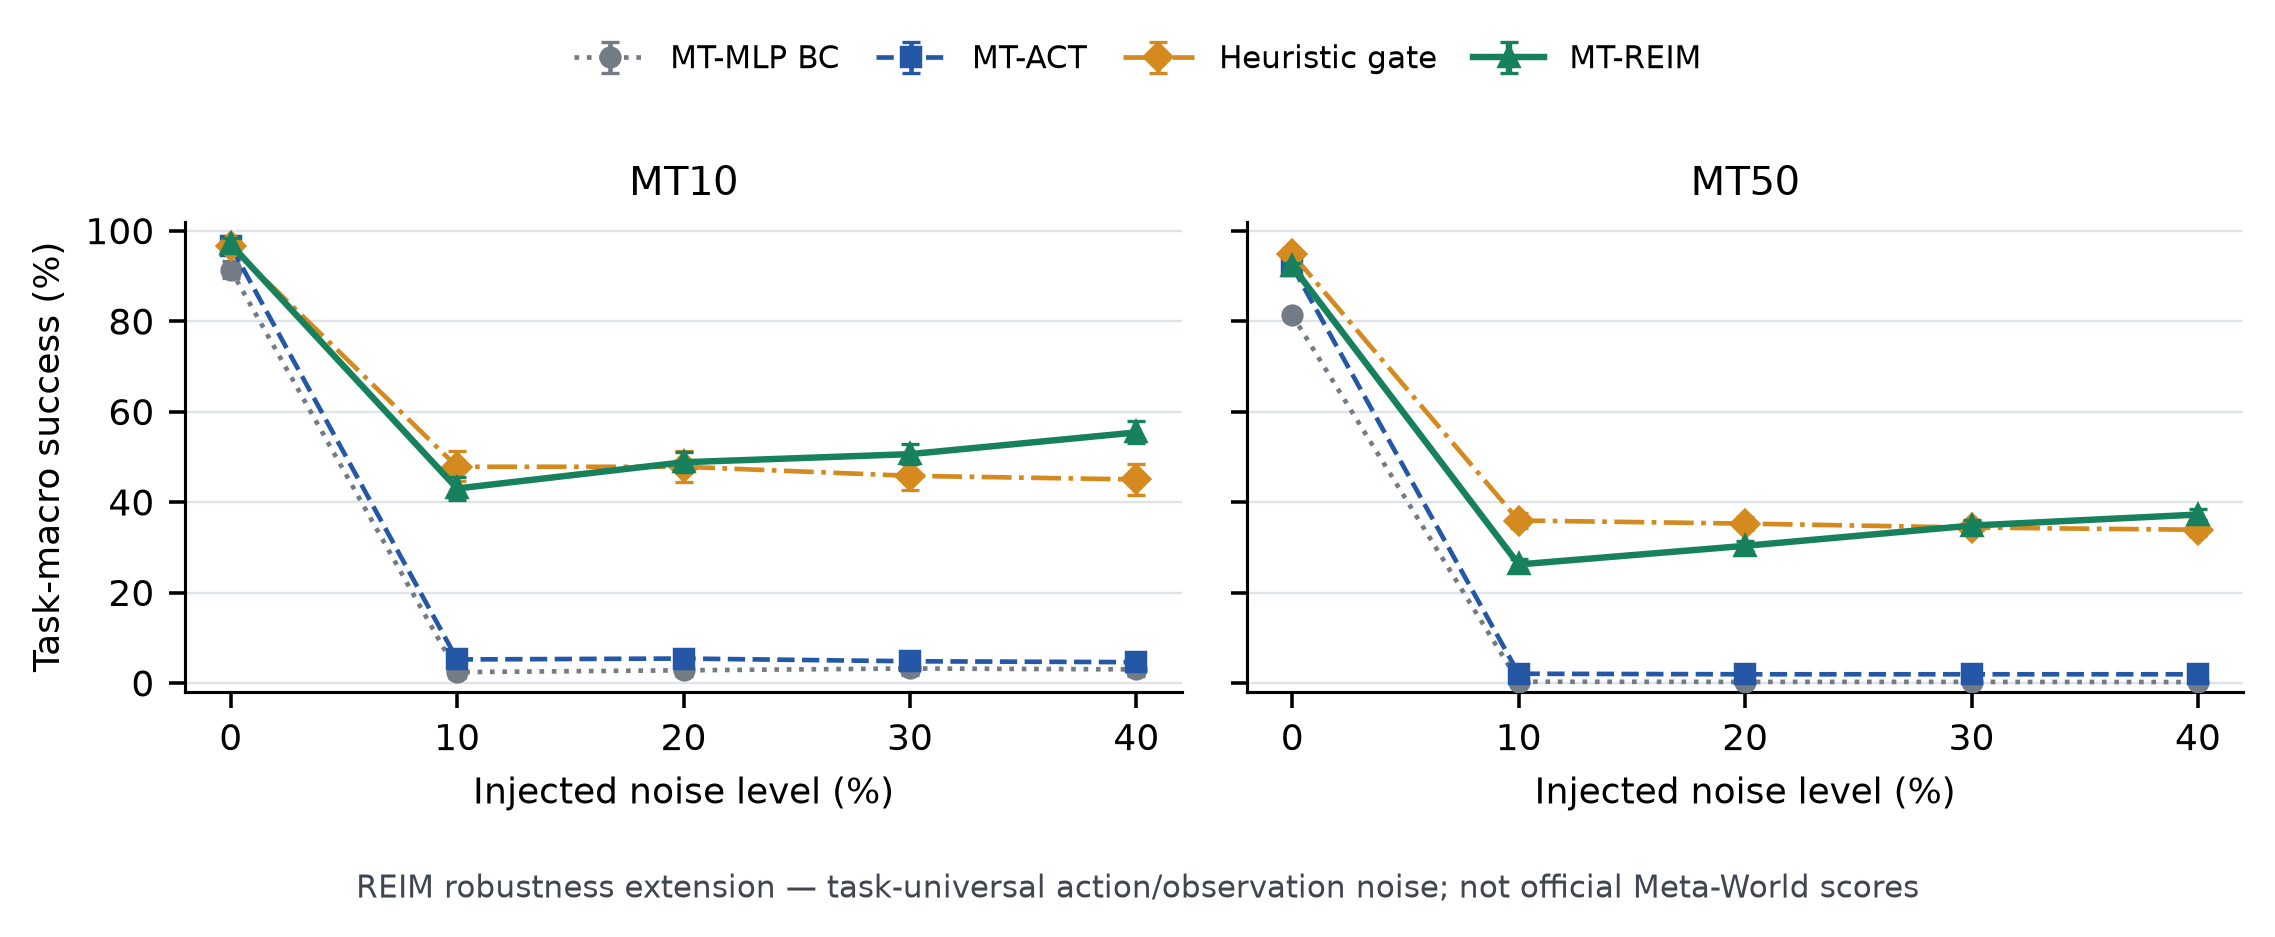
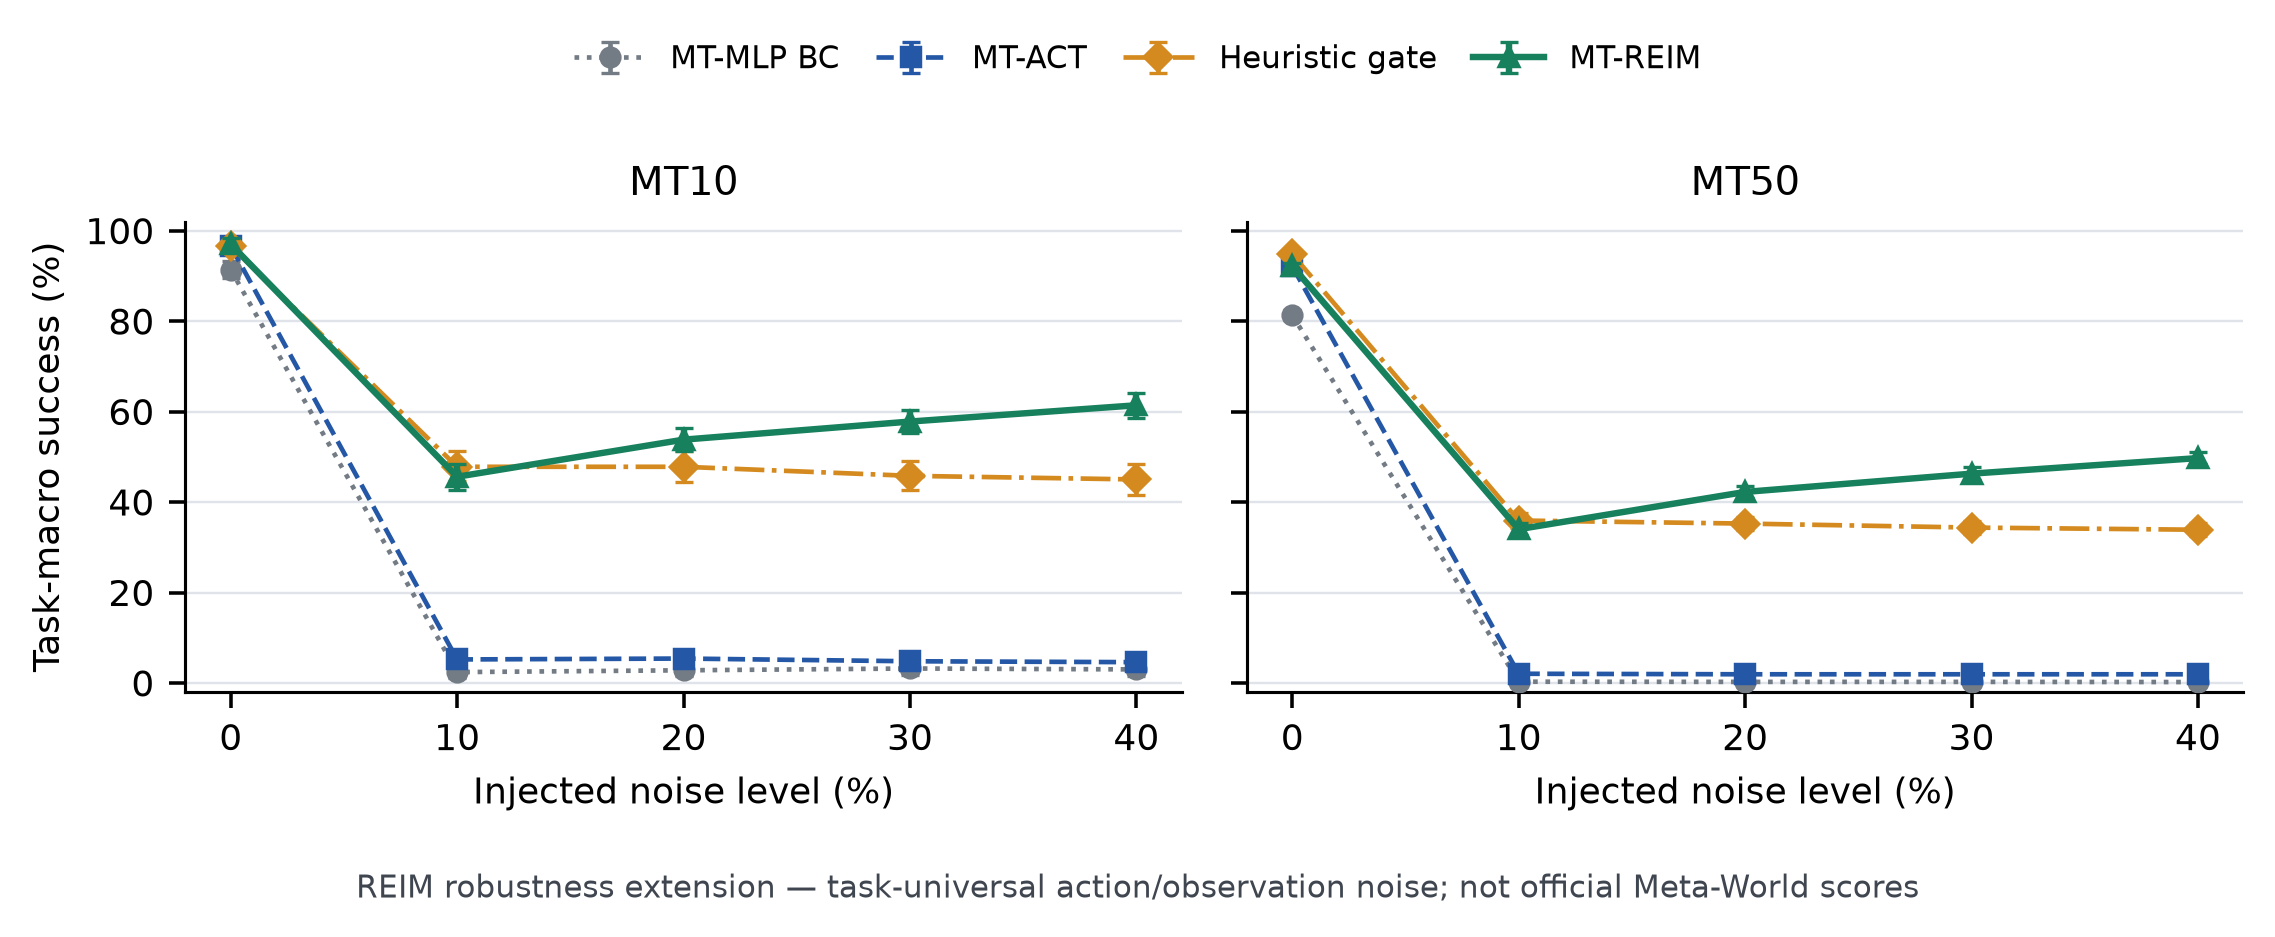
results: regenerate paper assets with release 0.05/10 (MT10/MT50 official)

diff --git a/paper_assets/multitask_results.tex b/paper_assets/multitask_results.tex
@@ -1,7 +1,7 @@
 % Generated by visualization/generate_multitask_paper_assets.py.
 % The publication gate validated MT10 + MT50 clean, five robustness
 % conditions per suite, and both independent five-bank audits.
-% input-manifest-sha256: 2168d1ade6ed082b9c32f7cffeb5c0aafe7f7ddb0b89a9625129ae697833719f
+% input-manifest-sha256: d803829126c99866430cdc262c4aa97491a2ab7b345d85e63a2a307097212834
 \REIMMultiTaskResultstrue
 \renewcommand{\MTTenMLPCleanSuccess}{91.4\%}
 \renewcommand{\MTTenMLPCleanSuccessCI}{[89.6, 93.2]\%}
@@ -39,7 +39,7 @@
 \renewcommand{\MTFiftyHeuristicDeltaVsACTCI}{[+2.0, +3.4]\,pp}
 \renewcommand{\MTFiftyREIMCleanSuccess}{92.2\%}
 \renewcommand{\MTFiftyREIMCleanSuccessCI}{[91.3, 93.0]\%}
-\renewcommand{\MTFiftyREIMWorstQuartile}{71.4\%}
+\renewcommand{\MTFiftyREIMWorstQuartile}{71.1\%}
 \renewcommand{\MTFiftyREIMIntervention}{28.4\%}
 \renewcommand{\MTFiftyREIMDeltaVsACT}{+0.0\,pp}
 \renewcommand{\MTFiftyREIMDeltaVsACTCI}{[-0.4, +0.6]\,pp}
